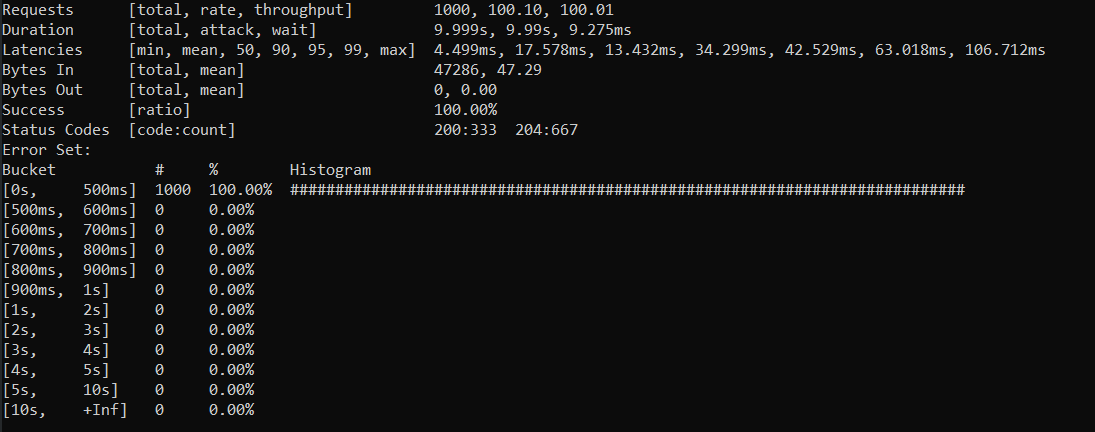
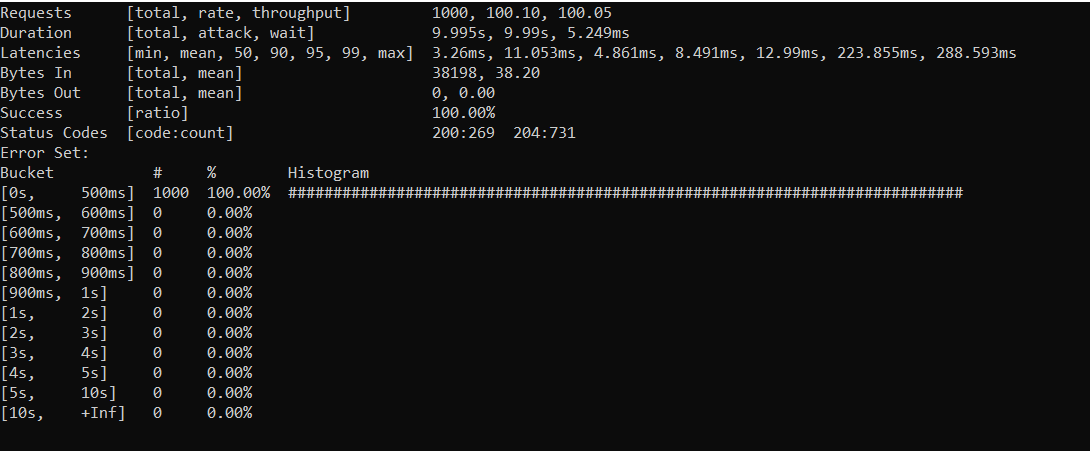
Updates

Changed region(s): [[0.0, 0.0, 1.0, 0.963]]

diff --git a/7/Api/src/Controllers/HelloWorldController.cs b/7/Api/src/Controllers/HelloWorldController.cs
@@ -1,7 +1,7 @@
-using Interfaces;
+using System;
+using Interfaces;
 using Microsoft.AspNetCore.Mvc;
 using Orleans;
-using System;
 using System.Threading;
 using System.Threading.Tasks;
 
@@ -12,38 +12,33 @@ namespace Api.Controllers
     public class HelloWorldController : ControllerBase
     {
         private readonly IClusterClient _clusterClient;
+        private readonly Random _generator;
 
         public HelloWorldController(
             IClusterClient clusterClient)
         {
             _clusterClient = clusterClient;
+            _generator = new Random();
         }
 
         [HttpGet]
-        public async Task<IActionResult> Get(
-            string name, int clientId, CancellationToken cancellationToken)
+        public async Task<IActionResult> Get(string name, CancellationToken cancellationToken)
         {
             IActionResult result = null;
 
             if (!cancellationToken.IsCancellationRequested)
             {
-                if (clientId >= 0 && clientId <= 100)
-                {
-                    var grainCancellationTokenSource = new GrainCancellationTokenSource();
-                    //An integer(1 - 100) is accepted to allow for a new hello world grain to be created or reused per client.
-                    var response = await _clusterClient.GetGrain<IHelloWorld>(clientId)
-                        .SayHello(name, grainCancellationTokenSource.Token);
-                    
-                    result = response.Equals("disabled", StringComparison.OrdinalIgnoreCase) 
-                        ? NoContent() 
-                        : Ok(response);
-                }
-                else
-                {
-                    result = BadRequest($"{nameof(clientId)} not in the expected range (0 - 100).");
-                }
+                var grainCancellationTokenSource = new GrainCancellationTokenSource();
+                //A random integer (1 - 50) is generated to allow for a new hello world grain to be created or reused per client.
+                var response = await _clusterClient.GetGrain<IHelloWorld>(_generator.Next(1, 51))
+                    .SayHello(name, grainCancellationTokenSource.Token);
+
+                result = string.IsNullOrEmpty(response)
+                    ? NoContent()
+                    : Ok(response);
+
             }
-            
+
             return result;
         }
     }

diff --git a/7/SiloHost/src/Program.cs b/7/SiloHost/src/Program.cs
@@ -68,11 +68,11 @@ namespace SiloHost
                     siloBuilder.ConfigureApplicationParts(applicationPartManager =>
                         applicationPartManager.AddApplicationPart(typeof(HelloWorld).Assembly).WithReferences());
 
-                    /*Registering Feature Management, to allow DI of IFeatureManagerSnapshot in HelloWorld class.
+                    /*Registering Feature Management, to allow DI of IFeatureManagerSnapshot in HelloWorld grain.
                      Using built in Percentage filter to demonstrate a feature being on/off.*/
-                    siloBuilder.ConfigureServices(svc =>
+                    siloBuilder.ConfigureServices(serviceCollection =>
                     {
-                        svc.AddFeatureManagement()
+                        serviceCollection.AddFeatureManagement()
                             .AddFeatureFilter<PercentageFilter>();
                     });
                 })

diff --git a/7/Grains/src/HelloWorld.cs b/7/Grains/src/HelloWorld.cs
@@ -17,16 +17,10 @@ namespace Grains
         {
             string result = null;
 
-            if (!grainCancellationToken.CancellationToken.IsCancellationRequested)
+            if (!grainCancellationToken.CancellationToken.IsCancellationRequested &&
+                await _featureManagerSnapshot.IsEnabledAsync("FeatureA"))
             {
-                if (await _featureManagerSnapshot.IsEnabledAsync("FeatureA"))
-                {
-                    result = await Task.FromResult(Say.hello(name) + $" Grain reference - {IdentityString}");
-                }
-                else
-                {
-                    result = "Disabled";
-                }
+                result = Say.hello(name) + $" Grain reference - {IdentityString}";
             }
 
             return result;

diff --git a/7/readme.md b/7/readme.md
@@ -5,7 +5,7 @@ In this example we substitute the basic console client with a Web Api - the clus
 
 The demo illustrates the usage of a cluster of silos, one client and a load test running against that client (for the sake of the illustration, we activate a grain for each call the api makes to the silo cluster).
 
-The Web Api's GET action can be accessed by default using the following URL: `http://localhost:5432/helloworld?name=Piotr&clientId=1`.
+The Web Api's GET action can be accessed by default using the following URL: `http://localhost:5432/helloworld?name=Piotr`.
 
 ## running the code
 
@@ -33,7 +33,7 @@ As in example 6, following scripts can be used to run clients:
 
 Now we get to a bit more serious testing as it's easier to laod test the setup. Here is what's happening:
 
-Load test results - vegeta. This image demonstartes the resuse of grains (3 grains for HelloWorld)
+Load test results - vegeta. This image demonstartes the resuse of grains (50 max grains for HelloWorld)
 and feature managment in action, feature enabled - status code 200, feature disabled - status code 204:
 
 ![2](./imgs/1.png)

diff --git a/readme.md b/readme.md
@@ -9,7 +9,7 @@
 
 This repository illustrates the road to orleans with practical, real-life examples. From most basic, to more advanced techniques. The code is written using .NET 5 and was tested on MacOS (Catalina 10.15.7) and, wherever docker is supported, Linux (Alpine 3.12).
 
-Here Grains are identified with a unique clientID, which will allow grains to be reused selectively. This solution demonstrates dependency injection in action orleans via injecting feature management.
+Here Grains are identified with a randomly generated int (1-50), which will allow grains to be reused. This solution demonstrates dependency injection in action orleans via injecting feature management.
 
 ## build & run
 
